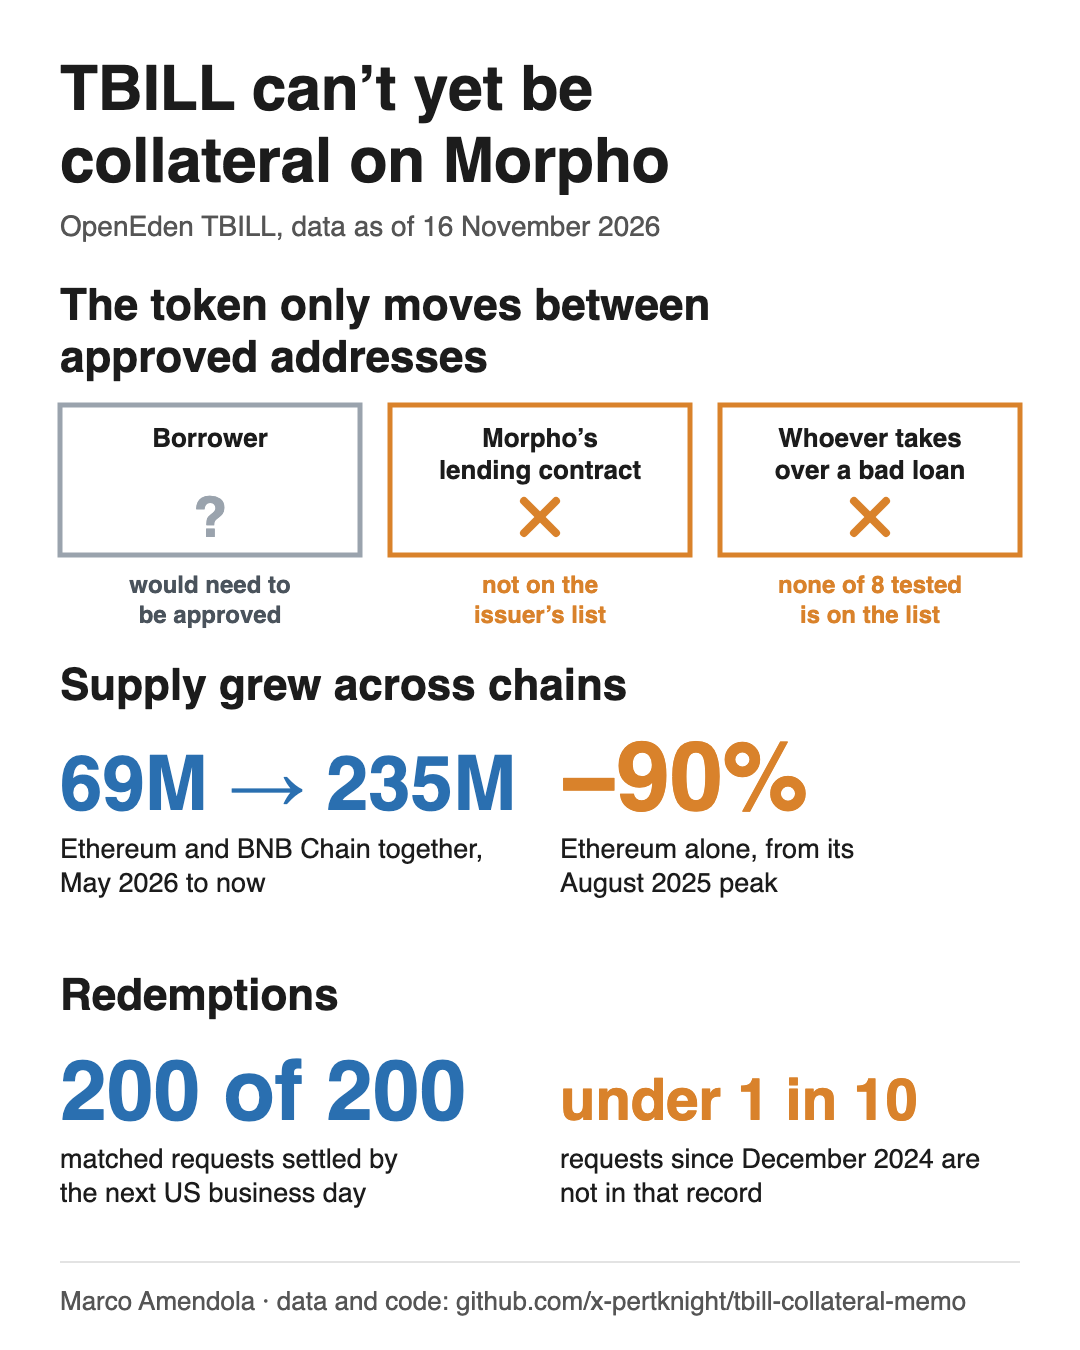
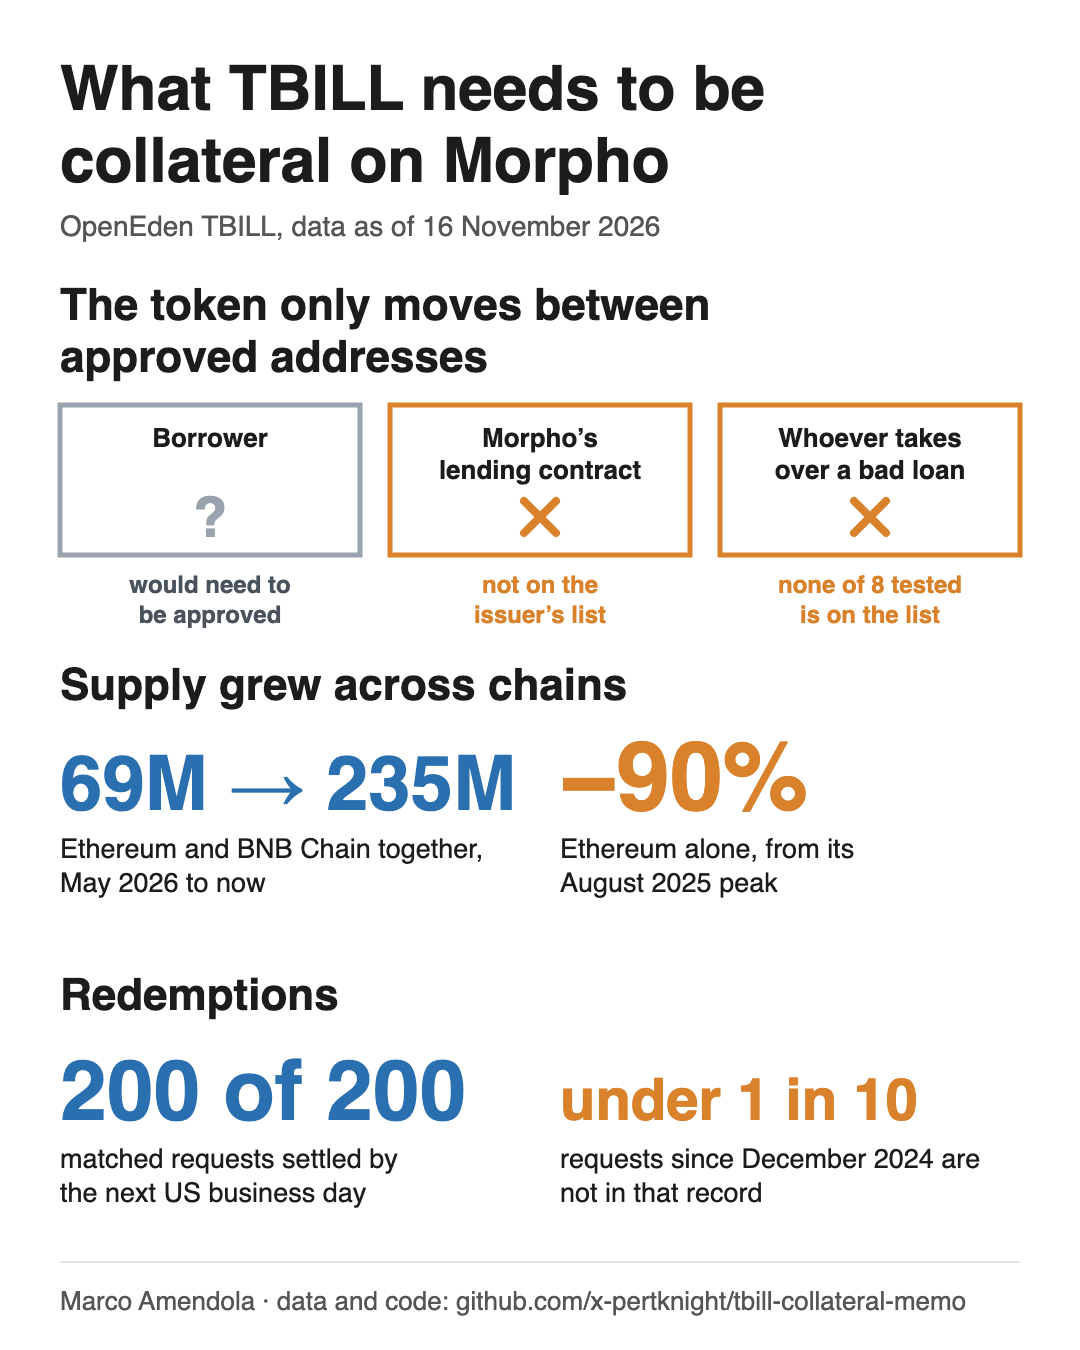
Post and summary chart: wording

Changed region(s): [[0.0611, 0.0311, 0.7028, 0.0933]]

diff --git a/scripts/make_summary.py b/scripts/make_summary.py
@@ -44,7 +44,7 @@ def build():
     w, h, m = 1080, 1350, 60
     p = [f'<svg xmlns="http://www.w3.org/2000/svg" width="{w}" height="{h}" font-family="Helvetica, Arial, sans-serif">',
          f'<rect width="{w}" height="{h}" fill="white"/>',
-         text(m, 110, "TBILL can’t yet be", 62, INK, weight="bold"), text(m, 182, "collateral on Morpho", 62, INK, weight="bold"),
+         text(m, 110, "What TBILL needs to be", 62, INK, weight="bold"), text(m, 182, "collateral on Morpho", 62, INK, weight="bold"),
          text(m, 236, f"OpenEden TBILL, data as of {as_of}", 28, SOFT)]
     # section 1: the rule
     p += [text(m, 320, "The token only moves between", 44, INK, weight="bold"), text(m, 372, "approved addresses", 44, INK, weight="bold")]

diff --git a/post.template.md b/post.template.md
@@ -1,8 +1,8 @@
-OpenEden's TBILL token cannot yet be collateral on Morpho. The issuer's approved list is only the first reason.
+What it would take for OpenEden's TBILL to become collateral on Morpho. The token moves only between addresses the issuer approves, and Morpho's contract is not on that list yet.
 
 What the token is
 
-TBILL is a token backed by short-dated US Treasury bills. It can only move between addresses the issuer has approved. Redemptions go through a queue worked in order.
+TBILL is a token backed by short-dated US Treasury bills. Redemptions go through a queue worked in order.
 
 The rule that decides it
 
@@ -12,9 +12,9 @@ What the record shows
 
 Across Ethereum and BNB Chain, supply grew from about {{chains.two_chain_first_m|.0f}} million tokens in {{chains.two_chain_first_date|month_year}} to about {{chains.two_chain_now_m|.0f}} million now. On Ethereum alone it is about {{supply.fall_vs_peak_pct|.0f}}% below its {{supply.peak_date|month}} peak. More than half of that fall matches a same-size mint on BNB Chain. Of the redemption requests since {{queue.paired_from|month}}, {{queue.paired_requests}} could be matched to payouts, and all settled by the next US business day, as the issuer's documents say is typical.
 
-What it would take
+The conditions
 
-The issuer's list would have to include Morpho's lending contract and at least {{liq.min_listed_word}} independent parties who take over bad loans. That is necessary and not sufficient. The issuer can also remove an address later, so a lender should be ready to lose a loan in full.
+The issuer's list would have to include Morpho's lending contract and at least {{liq.min_listed_word}} independent parties who take over bad loans. That is necessary and not sufficient. The issuer can also remove an address later, so a lender should size each loan for that risk.
 
 Limits
 

diff --git a/post.md b/post.md
@@ -1,8 +1,8 @@
-OpenEden's TBILL token cannot yet be collateral on Morpho. The issuer's approved list is only the first reason.
+What it would take for OpenEden's TBILL to become collateral on Morpho. The token moves only between addresses the issuer approves, and Morpho's contract is not on that list yet.
 
 What the token is
 
-TBILL is a token backed by short-dated US Treasury bills. It can only move between addresses the issuer has approved. Redemptions go through a queue worked in order.
+TBILL is a token backed by short-dated US Treasury bills. Redemptions go through a queue worked in order.
 
 The rule that decides it
 
@@ -12,9 +12,9 @@ What the record shows
 
 Across Ethereum and BNB Chain, supply grew from about 69 million tokens in May 2026 to about 235 million now. On Ethereum alone it is about 90% below its August 2025 peak. More than half of that fall matches a same-size mint on BNB Chain. Of the redemption requests since December 2024, 200 could be matched to payouts, and all settled by the next US business day, as the issuer's documents say is typical.
 
-What it would take
+The conditions
 
-The issuer's list would have to include Morpho's lending contract and at least three independent parties who take over bad loans. That is necessary and not sufficient. The issuer can also remove an address later, so a lender should be ready to lose a loan in full.
+The issuer's list would have to include Morpho's lending contract and at least three independent parties who take over bad loans. That is necessary and not sufficient. The issuer can also remove an address later, so a lender should size each loan for that risk.
 
 Limits
 
